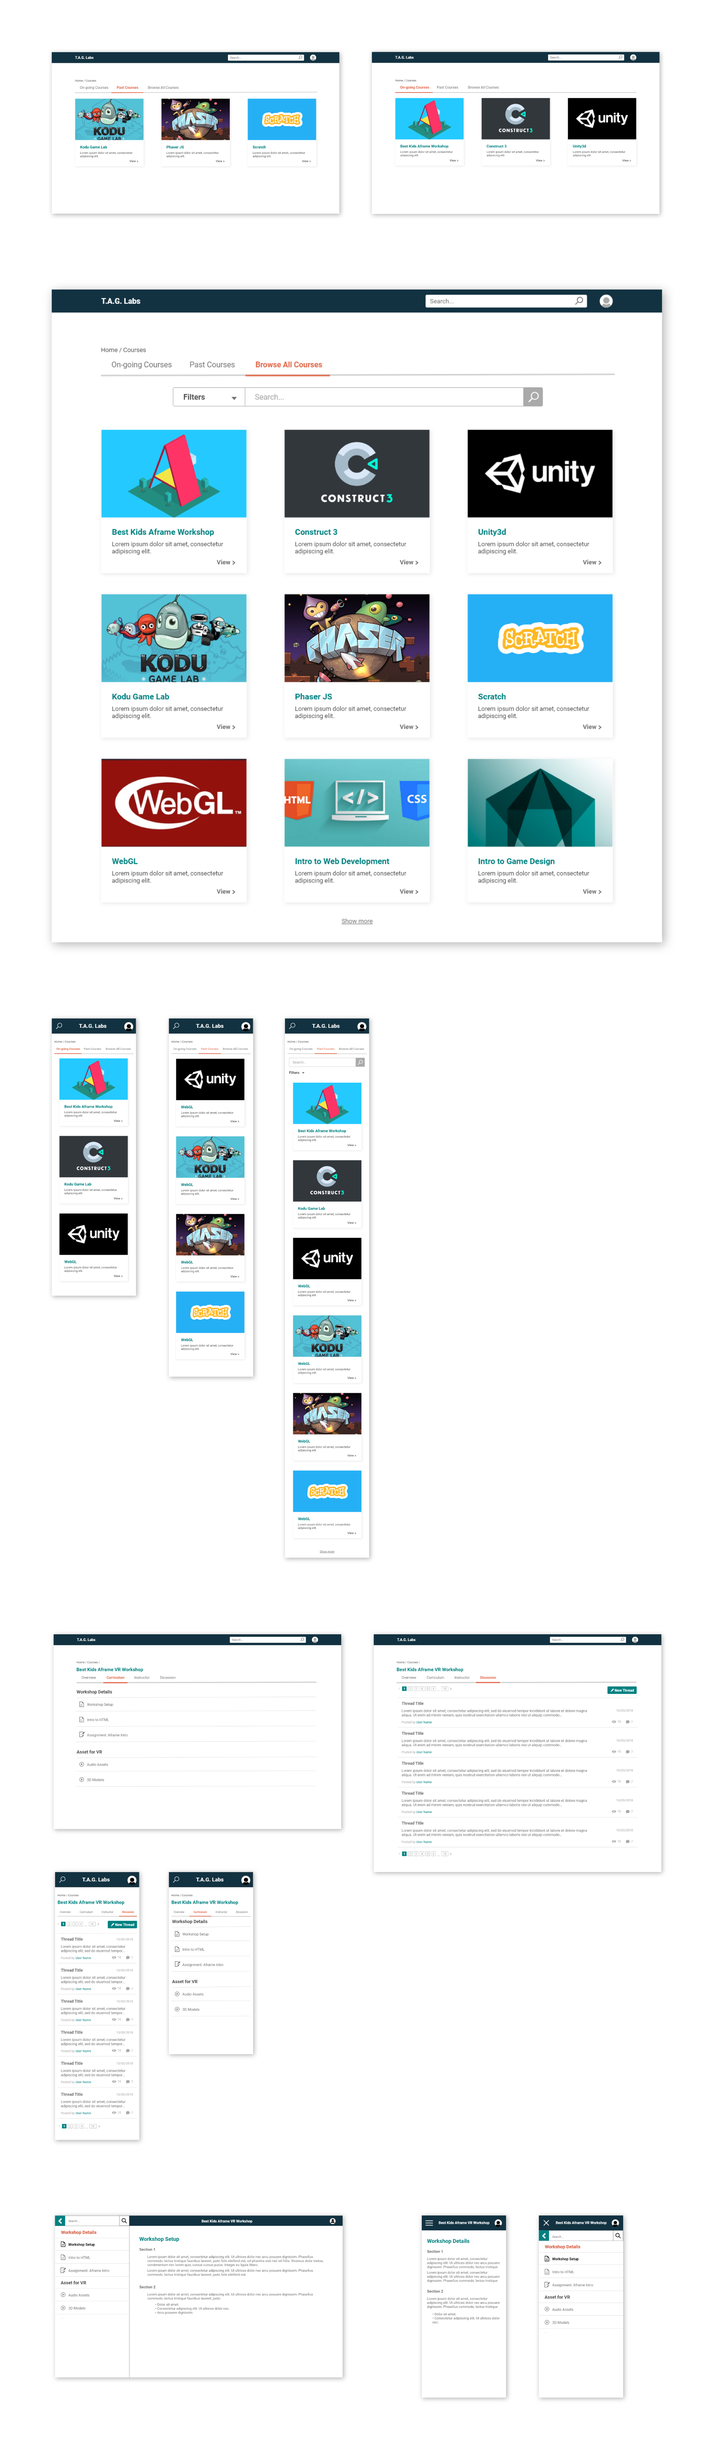
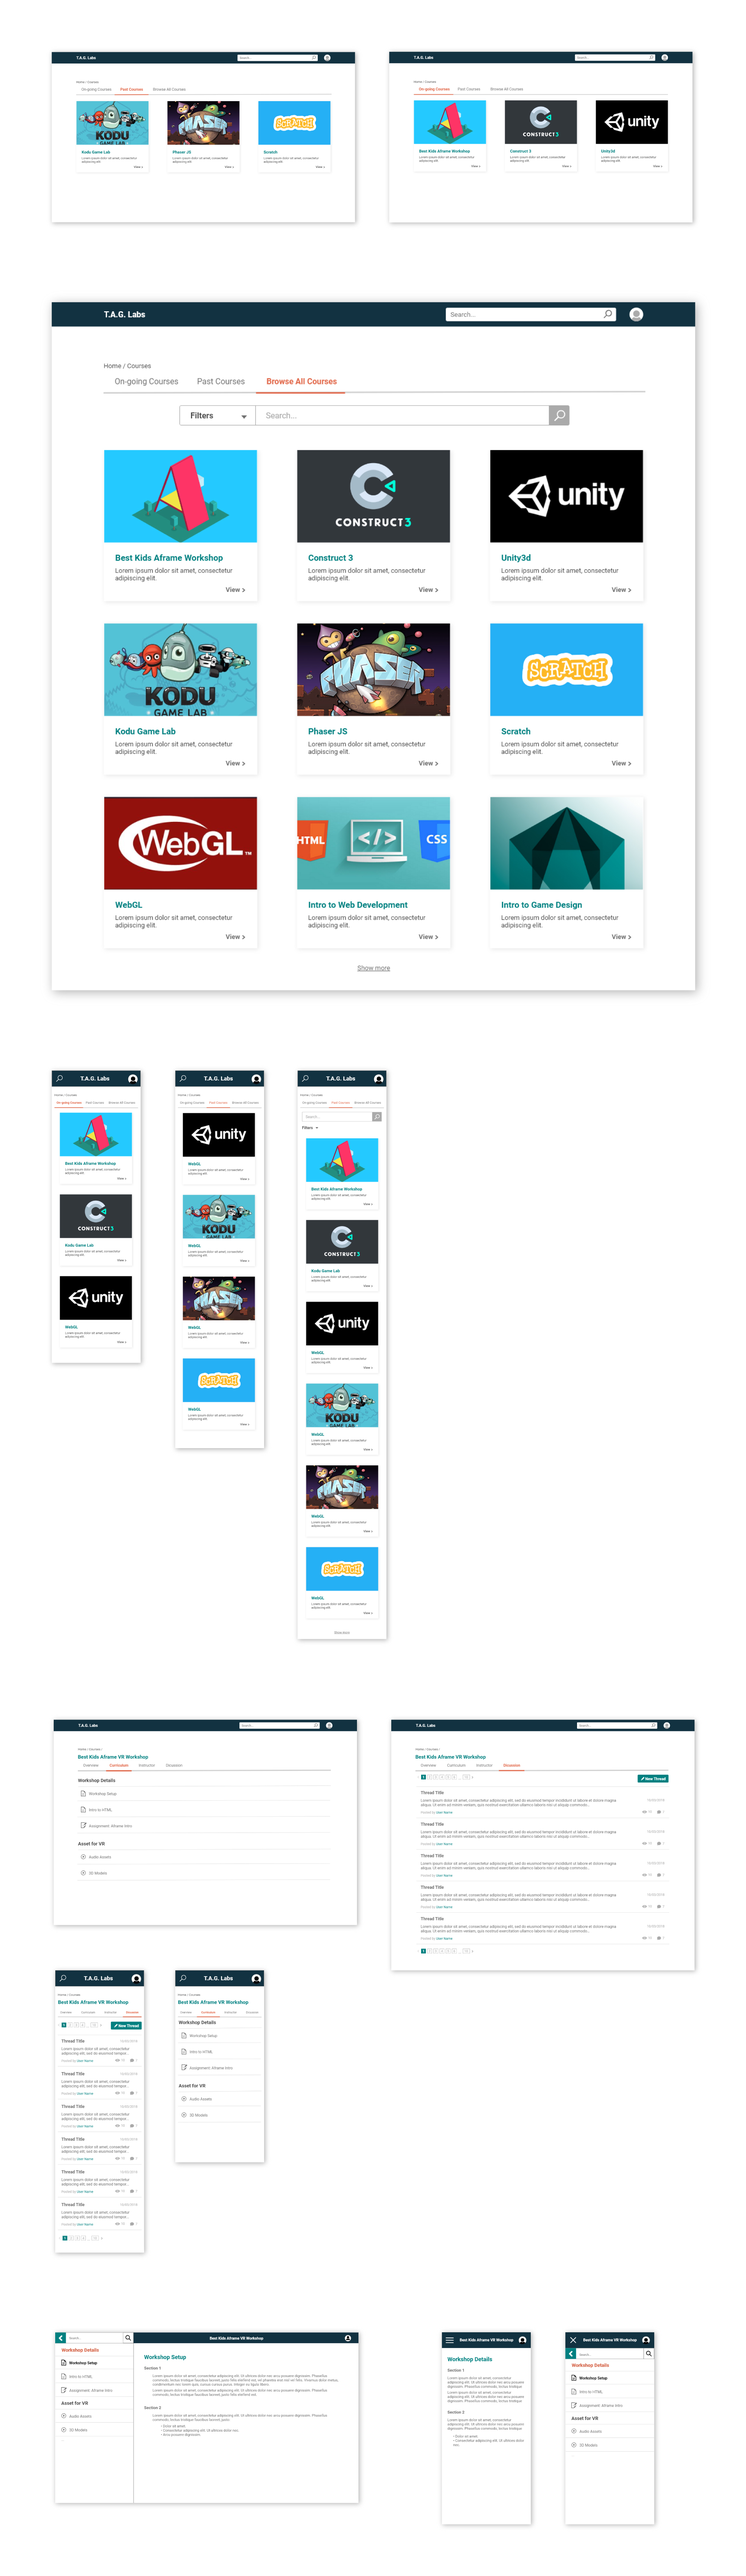
Work Update

diff --git a/works.html b/works.html
@@ -334,14 +334,24 @@
 							  			<p>Throughout this project, I worked closely with the T.A.G. Labs Web Design/Dev team. I was mainly responsible for conducting user research and creating wireframes as well as high-fidelity mockups for the design of the LMS.</p>
 							  			<h4 class="title">The Process</h4>
 							  			<h5 class="sub-title">Research</h5>
-							  			<p>Knowing that our main users are students between the ages of 10 and 18, we developed personas accordingly so as to get a deeper insight into our target users’ needs. We also did various competitive analyses on similar online learning systems such as Codecademy, Lynda, Coursera, and Udemy. From these analyses, we were able to explore each systems’ strengths and shortcomings, thereby building up ideas of the look and experience of our LMS.
+							  			<p>Knowing that our main users are students between the ages of 10 and 18, we developed personas accordingly so as to get a deeper insight into our target users’ needs. We also did various competitive analyses on similar online learning systems such as Codecademy, Lynda, Coursera, and Udemy. From these analyses, we were able to explore each systems’ strengths and shortcomings.
 							  			</p>
-							  			<h5 class="sub-title">Idea Development & Visualization</h5>
-							  			<p>From our findings during the research process, I created wireframes that represent low-fidelity layouts and hierarchy of the information included in the learning system.
-							  			<br>
-							  			The main objective that I followed throughout this process was to make sure the display of information follows a coherent hierarchy while being aesthetically pleasing. The LMS was expected to potentially contain a significant amount of content of different hierarchical orders, such as lists of courses and individual courses’ lessons. Bearing that in mind, I built a navigation system that guides the user smoothly through different parts within the LMS and provides a satisfying learning experience. The user is able to pick up a course where left off, encouraged to explore new programs, provided with brief details about each course upon browsing, and so on.    
+							  			<p>Through our research, we were able to identify certain pain points during the online learning experience. In an online environment without direct guidance from instructors, students sometimes need extra assistance in keeping on track with course progress. In addition, online learning tools are often overwhelmed with content from numerous courses, which calls for a coherent navigation flow.</p>
+							  			<h5 class="sub-title">Idea Development & Wireframing</h5>
+							  			<p>With our findings, we eventually came up with the following main goals for the design of the LMS:</p>
+										<ul>
+									  		<li><p>Make it easy to browse the LMS content, sign up, and keep up with course progress.</p></li>
+									  		<li><p>Display information in an orderly, comprehensible manner.</p></li>
+									  		<li><p>Create an engaging interface.</p></li>
+										</ul>
+							  			<p>
+							  			Bearing the goals in mind, I built a navigation system that guides the user smoothly through different parts within the LMS and provides a satisfying learning experience. On the home landing page, the user is presented with 3 tabs for on-going courses, completed courses, and all courses, which features a search tool for easier browsing. These tabs provide an organized way for the user to keep track of their courses while browsing other available options.    
 							  			</p>
-							  			<img class="col-12" src="photos/uiux/tag/taglms-wireframes.jpg">
+							  			<img class="col-12" src="photos/uiux/tag/taglms-desktop-wireframes.jpg">
+							  			<p>Each course’s landing page also includes 4 tabs, each of which displays one type of information about the program, so as not to overwhelm students with too many details. In the Curriculum tab, each lesson and its sections are displayed clearly. The sections’ different type of media like reading, assignment, or video are illustrated by different icons for easy recognition.</p>
+							  			<img class="col-12" src="photos/uiux/tag/taglms-courselandingpage.jpg">
+							  			<p>Along with the desktop wireframes, I also created a mobile version with similar navigation.</p>
+							  			<img class="col-12" src="photos/uiux/tag/taglms-mobile-wireframes.jpg">
 							  			<h5 class="sub-title">High-Fidelity Mockups</h5>
 							  			<p>Using the wireframes, I started developing detailed mockups, adding and adjusting elements like accent colors, icons and text treatment to perfect the look and feel of the LMS.</p>
 							  			<img class="col-12" src="photos/uiux/tag/taglms-high-fidelity-mockups.jpg">

diff --git a/skills.html b/skills.html
@@ -52,7 +52,7 @@
 							</div>
 						</div>
 						<div class="skill-details">
-							<h3 class="text-center title">Front-end Development</h3>
+							<h3 class="text-center title">Creative Coding</h3>
 							<div class="row">
 								<div class="col-8 skil-item sub-title">HTML/CSS</div>
 								<div class="col-4 skill-years">3 years</div>
@@ -69,6 +69,10 @@
 								<div class="col-8 skil-item sub-title">Wordpress</div>
 								<div class="col-4 skill-years">1 year</div>
 							</div>
+							<div class="row">
+								<div class="col-8 skil-item sub-title">Processing & p5.js</div>
+								<div class="col-4 skill-years">1 year</div>
+							</div>
 						</div>
 					</div>
 					<div class="col-12 col-md-4 skill-catgr">
@@ -78,17 +82,21 @@
 							</div>
 						</div>
 						<div class="skill-details">
-							<h3 class="text-center title">Visual Design</h3>
+							<h3 class="text-center title">Design</h3>
 							<div class="row">
-								<div class="col-8 skil-item sub-title">Graphic Design</div>
+								<div class="col-8 skil-item sub-title">Visual Design</div>
 								<div class="col-4 skill-years">3 years</div>
 							</div>
 							<div class="row">
-								<div class="col-8 skil-item sub-title">UI/UX Design</div>
+								<div class="col-8 skil-item sub-title">Interaction Design</div>
+								<div class="col-4 skill-years">2 years</div>
+							</div>
+							<div class="row">
+								<div class="col-8 skil-item sub-title">User Research</div>
 								<div class="col-4 skill-years">3 years</div>
 							</div>
 							<div class="row">
-								<div class="col-8 skil-item sub-title">Illustration</div>
+								<div class="col-8 skil-item sub-title">Icon Design</div>
 								<div class="col-4 skill-years">2 years</div>
 							</div>
 							<div class="row">
@@ -96,12 +104,20 @@
 								<div class="col-4 skill-years">1 year</div>
 							</div>
 							<div class="row">
-								<div class="col-8 skil-item sub-title">Adobe Photoshop/Illustrator</div>
+								<div class="col-8 skil-item sub-title">Brand Design</div>
+								<div class="col-4 skill-years">3 years</div>
+							</div>
+							<div class="row">
+								<div class="col-8 skil-item sub-title">Adobe Photoshop & Illustrator</div>
 								<div class="col-4 skill-years">4 years</div>
 							</div>
 							<div class="row">
-								<div class="col-8 skil-item sub-title">Adobe XD</div>
-								<div class="col-4 skill-years">1 year</div>
+								<div class="col-8 skil-item sub-title">Sketch & Adobe XD</div>
+								<div class="col-4 skill-years">2 years</div>
+							</div>
+							<div class="row">
+								<div class="col-8 skil-item sub-title">InVision</div>
+								<div class="col-4 skill-years">2 years</div>
 							</div>
 						</div>
 					</div>

diff --git a/experiences.html b/experiences.html
@@ -48,13 +48,37 @@
 				<div class="row position">
 					<div class="col-12 col-sm-4 col-md-4 offset-md-1 col-lg-3 offset-lg-2">
 						<div class="row">
-							<div class="col-12"><p class="body-text">March 2017 - Present</p></div>
+							<div class="col-12"><p class="body-text">September 2018 - Present</p></div>
+							<div class="col-12"><h6 class="title">SiriusXM</h6></div>
+						</div>
+					</div>
+					<div class="exp-details col-12 col-sm-8 col-md-6 col-lg-5">
+						<h6 class="sub-title">Marketing Design Intern</h6>
+						<p class="body-text">Assist in solving UX problems for various components of the SiriusXM website. Conduct user research. Create process flows, wireframes, mockups, and prototypes.</p>
+					</div>
+				</div>
+				<div class="row position">
+					<div class="col-12 col-sm-4 col-md-4 offset-md-1 col-lg-3 offset-lg-2">
+						<div class="row">
+							<div class="col-12"><p class="body-text">June 2018 - August 2018</p></div>
+							<div class="col-12"><h6 class="title">AvalonBay Communities</h6></div>
+						</div>
+					</div>
+					<div class="exp-details col-12 col-sm-8 col-md-6 col-lg-5">
+						<h6 class="sub-title">Digital Marketing Intern</h6>
+						<p class="body-text">Managed website content for apartment homes nationwide, created internal graphic materials, and assisted in AvalonBay’s website redesign process.</p>
+					</div>
+				</div>
+				<div class="row position">
+					<div class="col-12 col-sm-4 col-md-4 offset-md-1 col-lg-3 offset-lg-2">
+						<div class="row">
+							<div class="col-12"><p class="body-text">March 2017 - December 2018</p></div>
 							<div class="col-12"><h6 class="title">T.A.G. Labs</h6></div>
 						</div>
 					</div>
 					<div class="exp-details col-12 col-sm-8 col-md-6 col-lg-5">
 						<h6 class="sub-title">Front-end Web Design/Development Intern</h6>
-						<p class="body-text">Help design and maintain T.A.G. Labs' website. Contribute to the process of building the organization's study management system for students and instructors.</p>
+						<p class="body-text">Helped design and maintain T.A.G. Labs' website. Created promotional graphics. Assisted as the lead designer in building the organization's learning management system.</p>
 					</div>
 				</div>
 				<!-- <div class="row position">

diff --git a/css/style.css b/css/style.css
@@ -307,8 +307,8 @@ nav {
   padding-right: 15px; }
   @media only screen and (min-width: 992px) {
     #works-carousel .works-caption {
-      padding-right: 60px;
-      padding-left: 60px; } }
+      padding-right: 100px;
+      padding-left: 100px; } }
 
 #works-carousel .work-title {
   font-size: 1.5rem;

diff --git a/sass/partials/_works.scss b/sass/partials/_works.scss
@@ -72,8 +72,8 @@
 		padding-left: 15px;
 		padding-right: 15px;
 		@media only screen and (min-width: 992px) {
-			padding-right: 60px;
-			padding-left: 60px;
+			padding-right: 100px;
+			padding-left: 100px;
 		}
 	}
 	.work-title {
